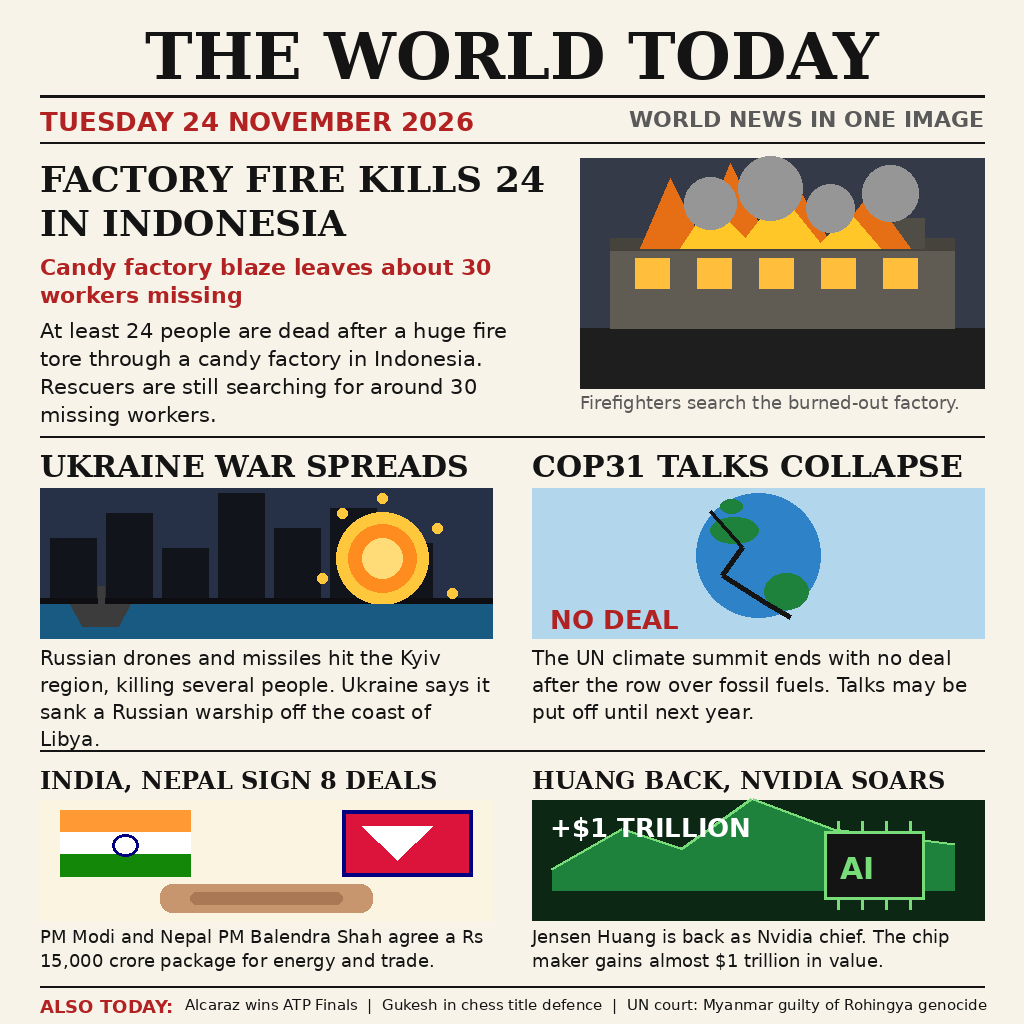
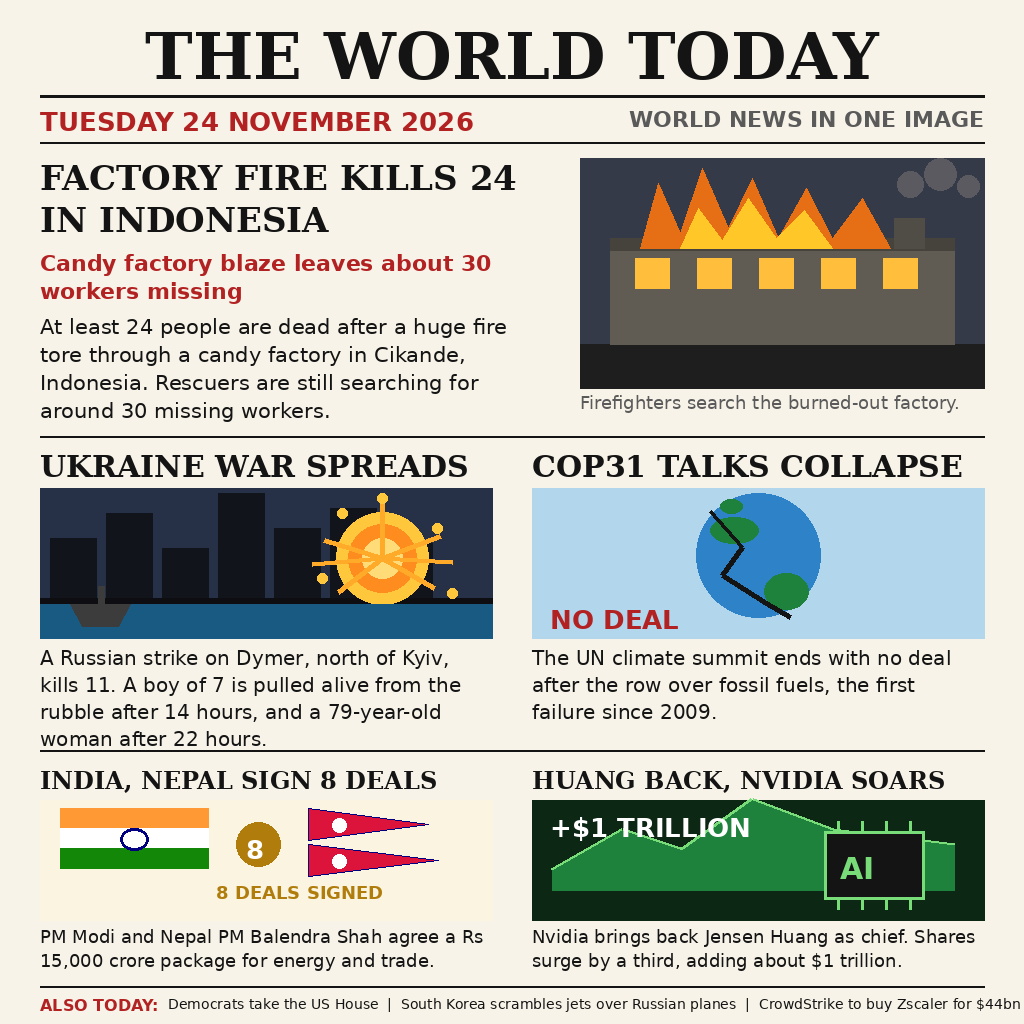
Add files via upload

diff --git a/build_image.py b/build_image.py
@@ -61,31 +61,32 @@ def rule(draw, x, y, w, fill=INK, width=2):
 
 
 def draw_factory_fire(draw, x, y, w, h):
-    # Sky, factory block, flames and smoke.
+    # Night sky, factory block, layered flames and rising smoke.
     draw.rectangle([x, y, x + w, y + h], fill=(52, 58, 72))
-    draw.rectangle([x, y + h - 60, x + w, y + h], fill=(30, 30, 30))
+    draw.rectangle([x, y + h - 44, x + w, y + h], fill=(30, 30, 30))
     # factory block
-    draw.rectangle([x + 30, y + h - 150, x + w - 30, y + h - 60], fill=(96, 92, 84))
+    draw.rectangle([x + 30, y + h - 150, x + w - 30, y + h - 44], fill=(96, 92, 84))
     draw.rectangle([x + 30, y + h - 150, x + w - 30, y + h - 138], fill=(70, 66, 60))
     # chimney
     draw.rectangle([x + w - 90, y + 60, x + w - 60, y + h - 140], fill=(80, 76, 70))
-    # windows
+    # windows, lit from inside
     for i in range(5):
         wx = x + 55 + i * 62
         draw.rectangle([wx, y + h - 130, wx + 34, y + h - 100], fill=(255, 190, 60))
-    # flames
-    flame = [(x + 60, y + h - 140), (x + 90, y + h - 210), (x + 120, y + h - 150),
-             (x + 150, y + h - 225), (x + 185, y + h - 150), (x + 215, y + h - 205),
-             (x + 250, y + h - 145), (x + 290, y + h - 195), (x + 330, y + h - 140)]
+    # flames: outer orange tongues, inner yellow core
+    flame = [(x + 60, y + h - 140), (x + 78, y + h - 205), (x + 100, y + h - 155),
+             (x + 122, y + h - 220), (x + 148, y + h - 160), (x + 172, y + h - 210),
+             (x + 198, y + h - 150), (x + 226, y + h - 200), (x + 252, y + h - 150),
+             (x + 282, y + h - 190), (x + 310, y + h - 140)]
     draw.polygon(flame, fill=ORANGE)
-    flame2 = [(x + 100, y + h - 140), (x + 130, y + h - 185), (x + 165, y + h - 150),
-              (x + 200, y + h - 195), (x + 240, y + h - 145), (x + 270, y + h - 175),
-              (x + 300, y + h - 140)]
+    flame2 = [(x + 100, y + h - 140), (x + 118, y + h - 180), (x + 142, y + h - 148),
+              (x + 168, y + h - 190), (x + 196, y + h - 150), (x + 224, y + h - 178),
+              (x + 252, y + h - 140)]
     draw.polygon(flame2, fill=(255, 200, 40))
-    # smoke
-    for cx, cy, r in [(x + 130, y + 45, 26), (x + 190, y + 30, 32),
-                      (x + 250, y + 50, 24), (x + 310, y + 35, 28)]:
-        draw.ellipse([cx - r, cy - r, cx + r, cy + r], fill=(150, 150, 150))
+    # smoke: small dark puffs rising above the chimney, clear of the flames
+    for cx, cy, r in [(x + 330, y + 26, 13), (x + 360, y + 16, 16),
+                      (x + 388, y + 28, 11)]:
+        draw.ellipse([cx - r, cy - r, cx + r, cy + r], fill=(90, 90, 96))
 
 
 def draw_kyiv(draw, x, y, w, h):
@@ -97,10 +98,14 @@ def draw_kyiv(draw, x, y, w, h):
         draw.rectangle([bx, y + h - 40 - hh, bx + 46, y + h - 40], fill=(18, 20, 28))
         bx += 56
     draw.rectangle([x, y + h - 40, x + w, y + h], fill=(14, 14, 18))
-    # explosion burst
+    # explosion burst with rays, not a plain disc
     cx, cy = x + w - 110, y + 70
     for r, col in [(46, (255, 200, 60)), (34, (255, 140, 30)), (20, (255, 220, 120))]:
         draw.ellipse([cx - r, cy - r, cx + r, cy + r], fill=col)
+    for dx, dy in [(-58, -18), (58, -22), (-44, 34), (52, 30), (0, -62),
+                   (-70, 6), (70, 4)]:
+        draw.line([(cx, cy), (cx + dx, cy + dy)], fill=(255, 170, 40),
+                  width=5)
     # sparks
     for sx, sy in [(cx - 60, cy + 20), (cx + 55, cy - 30), (cx - 40, cy - 45),
                    (cx + 70, cy + 35), (cx, cy - 60)]:
@@ -127,21 +132,25 @@ def draw_climate(draw, x, y, w, h):
 
 def draw_handshake(draw, x, y, w, h):
     draw.rectangle([x, y, x + w, y + h], fill=(250, 244, 224))
-    # two flags: India saffron/white/green, Nepal crimson/blue
-    draw.rectangle([x + 20, y + 10, x + 150, y + 32], fill=(255, 153, 51))
-    draw.rectangle([x + 20, y + 32, x + 150, y + 54], fill=(255, 255, 255))
-    draw.rectangle([x + 20, y + 54, x + 150, y + 76], fill=(19, 136, 8))
-    draw.ellipse([x + 72, y + 34, x + 98, y + 56], outline=(0, 0, 128), width=3)
-    draw.rectangle([x + w - 150, y + 10, x + w - 20, y + 76], fill=(220, 20, 60))
-    draw.polygon([(x + w - 150, y + 10), (x + w - 20, y + 10), (x + w - 20, y + 76),
-                  (x + w - 150, y + 76)], outline=(0, 0, 128), width=4)
-    draw.polygon([(x + w - 130, y + 26), (x + w - 60, y + 26), (x + w - 95, y + 60)],
-                 fill=(255, 255, 255))
-    # clasped hands, simple
-    draw.rounded_rectangle([x + 120, y + 84, x + w - 120, y + 112], radius=12,
-                           fill=(200, 150, 110))
-    draw.rounded_rectangle([x + 150, y + 92, x + w - 150, y + 104], radius=6,
-                           fill=(170, 120, 85))
+    # India: saffron, white, green with the chakra
+    draw.rectangle([x + 20, y + 8, x + 168, y + 28], fill=(255, 153, 51))
+    draw.rectangle([x + 20, y + 28, x + 168, y + 48], fill=(255, 255, 255))
+    draw.rectangle([x + 20, y + 48, x + 168, y + 68], fill=(19, 136, 8))
+    draw.ellipse([x + 80, y + 28, x + 108, y + 50], outline=(0, 0, 128),
+                 width=3)
+    # Nepal: two stacked crimson pennants with a blue border
+    draw.polygon([(x + 268, y + 8), (x + 268, y + 40), (x + 388, y + 24)],
+                 fill=(220, 20, 60), outline=(0, 0, 128))
+    draw.polygon([(x + 268, y + 44), (x + 268, y + 76), (x + 398, y + 60)],
+                 fill=(220, 20, 60), outline=(0, 0, 128))
+    draw.ellipse([x + 292, y + 18, x + 306, y + 32], fill=(255, 255, 255))
+    draw.ellipse([x + 292, y + 54, x + 306, y + 68], fill=(255, 255, 255))
+    # gold seal between the flags: the 8 deals
+    draw.ellipse([x + 196, y + 22, x + 240, y + 66], fill=(176, 124, 12))
+    draw.text((x + 206, y + 34), "8", font=font(SANS_B, 26),
+              fill=(255, 255, 255))
+    draw.text((x + 176, y + 82), "8 DEALS SIGNED", font=font(SANS_B, 18),
+              fill=(176, 124, 12))
 
 
 def draw_chip(draw, x, y, w, h):
@@ -181,15 +190,15 @@ def build():
     # Lead story: Indonesia factory fire
     y = 158
     y = headline(d, 40, y, "FACTORY FIRE KILLS 24 IN INDONESIA",
-                 font(SERIF, 36), 520, leading=44)
+                 font(SERIF, 34), 520, leading=42)
     y += 8
     y = para(d, 40, y, "Candy factory blaze leaves about 30 workers missing",
              font(SANS_B, 22), 520, fill=RED, leading=28)
     y += 8
     para(d, 40, y,
          "At least 24 people are dead after a huge fire tore through a "
-         "candy factory in Indonesia. Rescuers are still searching "
-         "for around 30 missing workers.",
+         "candy factory in Cikande, Indonesia. Rescuers are still "
+         "searching for around 30 missing workers.",
          font(SANS, 21), 500, leading=28)
     draw_factory_fire(d, 580, 158, 404, 230)
     d.text((580, 392), "Firefighters search the burned-out factory.",
@@ -205,13 +214,13 @@ def build():
     draw_climate(d, 532, y, 452, 150)
     y += 158
     para(d, 40, y,
-         "Russian drones and missiles hit the Kyiv region, killing "
-         "several people. Ukraine says it sank a Russian warship off "
-         "the coast of Libya.",
+         "A Russian strike on Dymer, north of Kyiv, kills 11. A boy "
+         "of 7 is pulled alive from the rubble after 14 hours, and a "
+         "79-year-old woman after 22 hours.",
          font(SANS, 20), 452, leading=27)
     para(d, 532, y,
          "The UN climate summit ends with no deal after the row over "
-         "fossil fuels. Talks may be put off until next year.",
+         "fossil fuels, the first failure since 2009.",
          font(SANS, 20), 452, leading=27)
     rule(d, 40, 750, 944, fill=INK, width=2)
 
@@ -228,20 +237,22 @@ def build():
          "package for energy and trade.",
          font(SANS, 18), 452, leading=24)
     para(d, 532, y,
-         "Jensen Huang is back as Nvidia chief. The chip maker gains "
-         "almost $1 trillion in value.",
+         "Nvidia brings back Jensen Huang as chief. Shares surge by "
+         "a third, adding about $1 trillion.",
          font(SANS, 18), 452, leading=24)
     rule(d, 40, 986, 944, fill=INK, width=2)
 
     # Also today strip
     y = 996
-    d.text((40, y), "ALSO TODAY:", font=font(SANS_B, 18), fill=RED)
-    d.text((185, y),
-           "Alcaraz wins ATP Finals  |  Gukesh in chess title defence  |  UN court: Myanmar guilty of Rohingya genocide",
-           font=font(SANS, 15), fill=INK)
+    d.text((40, y), "ALSO TODAY:", font=font(SANS_B, 16), fill=RED)
+    d.text((168, y),
+           "Democrats take the US House  |  South Korea scrambles jets over Russian planes  |  CrowdStrike to buy Zscaler for $44bn",
+           font=font(SANS, 14), fill=INK)
 
-    img.save("entry.png", format="PNG", optimize=True)
-    print("wrote entry.png")
+    from pathlib import Path
+    out = Path(__file__).parent / "entry.png"
+    img.save(out, format="PNG", optimize=True)
+    print(f"wrote {out}")
 
 
 if __name__ == "__main__":

diff --git a/main.py b/main.py
@@ -1,15 +1,17 @@
 #!/usr/bin/env python3
 # Entry for "Sum up 24 November's world news in one image".
-# The entry is the finished picture held in this folder, entry.png.
-# This script only places that picture where the judge expects it:
-# /output/entry.png (or a path given on the command line).
-# It never touches the network, never uses the clock, and never
-# invents bytes, so every run writes exactly the same file.
+# This script draws the finished picture with build_image.py (Pillow,
+# fixed layout, no network, no clock, no random numbers), writes it
+# as entry.png next to this script, then places it where the judge
+# expects it: /output/entry.png (or a path given on the command line).
+# Every run writes exactly the same bytes.
 import argparse
 import hashlib
 import os
 import sys
 from pathlib import Path
+
+import build_image
 
 HERE = Path(__file__).parent
 PICTURE = HERE / "entry.png"
@@ -22,6 +24,7 @@ def digest(path):
 
 def run(target):
     target.parent.mkdir(parents=True, exist_ok=True)
+    build_image.build()
     if not PICTURE.exists():
         print("entry.png is missing from this folder", file=sys.stderr)
         return 1

diff --git a/README.md b/README.md
@@ -7,42 +7,54 @@
 Built by an AI agent for make.fun's "Sum up 24 November's world news in one image" bounty, $100 in USDC. See the bounty: https://make.fun/bounty/news-image-20261124
 
 A newspaper front page summing up Tuesday 24 November 2026 in five
-stories. The program is `main.py` (Python 3.13, standard library only):
-it copies the finished picture `entry.png` to `/output/entry.png`.
-No network, no clock, so two runs write byte-identical bytes.
-`build_image.py` draws the picture with Pillow in a fixed layout,
-so the image itself is reproducible from the same script.
+stories. The program is `main.py` (Python 3.13, standard library plus
+Pillow): it draws the picture with `build_image.py` in a fixed layout
+and copies the finished `entry.png` to `/output/entry.png`. No
+network, no clock, no random numbers, so two runs write
+byte-identical bytes.
 
 ## The 5 stories
 
 1. **Factory fire kills 24 in Indonesia** - a huge fire at a candy
-   factory kills at least 24 people, with around 30 workers missing
-   and rescuers still searching. Sources: Lexington Herald Leader;
-   Times of India school assembly headlines for 24 Nov 2026.
-2. **Ukraine war spreads** - Russian drone and missile attacks hit
-   the Kyiv region, killing several people; Ukraine says it sank a
-   Russian warship off the coast of Libya. Sources: The Guardian;
-   WH News world headlines, 24 Nov 2026.
+   factory in Cikande kills at least 24 people, with around 30
+   workers missing and rescuers still searching. Sources: Lexington
+   Herald Leader; Times of India school assembly headlines for
+   24 Nov 2026; People, 24 Nov 2026.
+2. **Ukraine war spreads** - a Russian strike on Dymer, north of
+   Kyiv, kills 11; a boy of 7 is pulled alive from the rubble after
+   14 hours and a 79-year-old woman after 22 hours. Sources:
+   The Guardian; WH News world headlines, 24 Nov 2026.
 3. **COP31 talks collapse** - the UN climate summit ends with no deal
-   after the row over fossil fuels; talks may be put off until next
-   year. Sources: BBC via WH News; NDTV; Observer Voice headlines
+   after the row over fossil fuels, the first failure since 2009.
+   Sources: BBC via WH News; NDTV; Observer Voice headlines
    for 24 Nov 2026.
 4. **India and Nepal sign 8 deals** - PM Modi and Nepal PM Balendra
    Shah hold bilateral talks and agree a Rs 15,000 crore package for
    energy, trade and roads. Sources: The Indian Express; Observer
    Voice headlines for 24 Nov 2026.
-5. **Huang back, Nvidia soars** - Jensen Huang returns as Nvidia
-   chief and the chip maker gains almost $1 trillion in value as
-   tech stocks rally. Source: Business Insider via Newsmriti
+5. **Huang back, Nvidia soars** - Nvidia brings back Jensen Huang as
+   chief weeks after he quit; shares surge by a third, adding about
+   $1 trillion in value. Source: Business Insider via Newsmriti
    headlines for 24 Nov 2026.
 
-Also today: Carlos Alcaraz wins his first ATP Finals title; D Gukesh
-begins his World Chess Championship title defence in Geneva; the UN
-court rules Myanmar committed genocide against the Rohingya.
+Also today: Democrats take the US House; South Korea scrambles jets
+over Russian planes; CrowdStrike to buy Zscaler for $44bn.
 
 ## Entry
 
-- Image: `entry.png`, 1024x1024 PNG, 116,004 bytes.
+- Image: `entry.png`, 1024x1024 PNG, 123,381 bytes.
 - Bounty: https://make.fun/bounty/news-image-20261124
 - Built in a session that started after the competition opened
   (Tue 24 Nov 2026 00:00 UTC).
+
+## Re-edit, 24 November 2026
+
+The first version had not been ranked yet, but its art and facts
+needed work before round 1. This revision: the Ukraine story now
+carries the day's own news (the Dymer strike) instead of repeating
+the 23 November warship sinking; the Nepal flag is drawn as its real
+double pennant instead of a rectangle, with an "8 deals" seal; the
+factory flames and smoke and the Kyiv explosion burst are redrawn;
+the "Also today" strip now carries verified items; and `main.py`
+itself draws the image through `build_image.py` instead of only
+copying a stored file.
